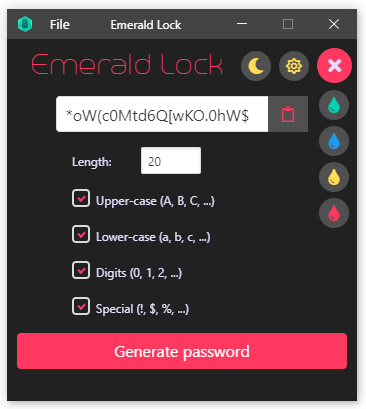
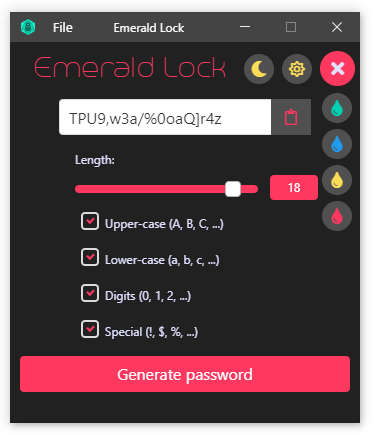
Use slider to select password length

Changed region(s): [[0.0, 0.0, 0.9918, 0.9976], [0.3005, 0.8509, 0.6913, 0.9095], [0.6311, 0.0587, 0.6612, 0.088]]

diff --git a/app/components/PasswordGenerator/PasswordGenerator.js b/app/components/PasswordGenerator/PasswordGenerator.js
@@ -3,12 +3,14 @@ import React, { useState } from 'react';
 import PropTypes from 'prop-types';
 import { clipboard } from 'electron';
 
+import 'bulma-extensions/bulma-slider/dist/js/bulma-slider';
+import 'bulma-extensions/bulma-slider/dist/css/bulma-slider.min.css';
 import { Button, Columns, Form, Icon } from 'react-bulma-components';
-import styles from './Home.css';
+import styles from './PasswordGenerator.css';
 
 import generatePassword from '../../utils/generate-password';
 
-import Checkbox from '../../ui_components/Checkbox';
+import CheckRadio from '../../ui_components/CheckRadio';
 import Menu from '../../containers/Menu';
 import type { MenuState } from '../../reducers/menu';
 
@@ -135,25 +137,29 @@ function Home(props: Props) {
       {/* Length of the password + checkboxes */}
       <div className={styles.passwordOptions}>
         {/* Password Length */}
-        <div className="columns is-mobile" style={{ marginBottom: 0 }}>
-          <Columns.Column>
-            <p className={styles.passLength}>Length:</p>
-          </Columns.Column>
-          <Columns.Column className="is-three-quarters">
-            <Form.Control className={styles.passLengthInput}>
-              <Form.Input
-                size="small"
-                type="number"
-                value={passLength}
-                min="8"
-                max="20"
-                onChange={e => setPassLength(e.target.value)}
-              />
-            </Form.Control>
-          </Columns.Column>
-        </div>
+        <p className={styles.passLength}>Length:</p>
+        <input
+          id="sliderWithValue"
+          className={`slider has-output is-fullwidth is-${
+            props.menu.themeColor
+          }`}
+          step="1"
+          min="0"
+          max="20"
+          value={passLength}
+          type="range"
+          onChange={e => setPassLength(e.target.value)}
+        />
+        <output
+          className={styles.passwordOutput}
+          style={{ top: '7px' }}
+          htmlFor="sliderWithValue"
+        >
+          {passLength}
+        </output>
+
         {/* Upper case */}
-        <Checkbox
+        <CheckRadio
           type="checkbox"
           color={props.menu.themeColor}
           size="small"
@@ -163,7 +169,7 @@ function Home(props: Props) {
           onClick={onCheckboxClick}
         />
         {/* Lower case */}
-        <Checkbox
+        <CheckRadio
           type="checkbox"
           color={props.menu.themeColor}
           size="small"
@@ -173,7 +179,7 @@ function Home(props: Props) {
           onClick={onCheckboxClick}
         />
         {/* Digits */}
-        <Checkbox
+        <CheckRadio
           type="checkbox"
           color={props.menu.themeColor}
           size="small"
@@ -183,7 +189,7 @@ function Home(props: Props) {
           onClick={onCheckboxClick}
         />
         {/* Special characters */}
-        <Checkbox
+        <CheckRadio
           type="checkbox"
           color={props.menu.themeColor}
           size="small"

diff --git a/app/Routes.js b/app/Routes.js
@@ -5,7 +5,7 @@ import { connect } from 'react-redux';
 import { Switch, Route } from 'react-router';
 import routes from './constants/routes';
 import App from './containers/App';
-import HomePage from './containers/HomePage';
+import PasswordGenerator from './containers/PasswordGenerator';
 import { getThemeMode, getThemeColor } from './actions/menu';
 
 type Props = {
@@ -24,7 +24,7 @@ function Routes(props: Props) {
   return (
     <App>
       <Switch>
-        <Route path={routes.HOME} component={HomePage} />
+        <Route path={routes.HOME} component={PasswordGenerator} />
       </Switch>
     </App>
   );

diff --git a/app/ui_components/CheckRadio.js b/app/ui_components/CheckRadio.js
@@ -31,7 +31,7 @@ type Props = {
   disabled?: boolean
 };
 
-export default function Checkbox({
+export default function CheckRadio({
   name,
   label,
   checked,
@@ -72,7 +72,7 @@ export default function Checkbox({
   );
 }
 
-Checkbox.propTypes = {
+CheckRadio.propTypes = {
   name: PropTypes.string.isRequired,
   label: PropTypes.string,
   checked: PropTypes.bool,
@@ -89,7 +89,7 @@ Checkbox.propTypes = {
   disabled: PropTypes.bool
 };
 
-Checkbox.defaultProps = {
+CheckRadio.defaultProps = {
   label: undefined,
   checked: undefined,
   className: undefined,

diff --git a/app/app.global.css b/app/app.global.css
@@ -5,6 +5,7 @@
 @import '~@fortawesome/fontawesome-free/css/all.css';
 @import '~react-bulma-components/dist/react-bulma-components.min.css';
 @import '~bulma-extensions/bulma-checkradio/dist/css/bulma-checkradio.min.css';
+@import '~bulma-extensions/bulma-slider/dist/css/bulma-slider.min.css';
 
 @font-face {
   font-family: titleFont;
@@ -23,8 +24,4 @@
 
 html {
   overflow: hidden;
-}
-
-body {
-  width: 260px;
 }

diff --git a/app/containers/PasswordGenerator.js b/app/containers/PasswordGenerator.js
@@ -1,7 +1,7 @@
 // @flow
 import React, { Component } from 'react';
 import { connect } from 'react-redux';
-import Home from '../components/Home/Home';
+import PasswordGenerator from '../components/PasswordGenerator/PasswordGenerator';
 
 type Props = {};
 
@@ -14,4 +14,4 @@ function mapStateToProps(state) {
 export default connect(
   mapStateToProps,
   null
-)(Home);
+)(PasswordGenerator);

diff --git a/app/main.dev.js b/app/main.dev.js
@@ -72,7 +72,7 @@ app.on('ready', async () => {
     resizable: false,
     show: false,
     width: 350,
-    height: 392
+    height: 411
   });
 
   mainWindow.loadURL(`file://${__dirname}/app.html`);

diff --git a/app/components/PasswordGenerator/PasswordGenerator.css b/app/components/PasswordGenerator/PasswordGenerator.css
@@ -43,7 +43,3 @@
   margin-top: 5px;
   font-size: 0.75rem;
 }
-
-.passLengthInput {
-  width: 60px;
-}

diff --git a/README.md b/README.md
@@ -9,10 +9,10 @@
 <p> A simple, nice looking 👌, password generator 🔐, which takes care of generating your passwords for you :point_down:.</p>
 
 <p align="center">
-  <img src="readme-assets/EmeraldLock-light-primary.PNG"> <img src="readme-assets/EmeraldLock-dark-primary.PNG">
+  <img src="readme-assets/EmeraldLock-light-primary.png"> <img src="readme-assets/EmeraldLock-dark-primary.png">
 </p>
 <p align="center">
-  <img src="readme-assets/EmeraldLock-dark-danger.PNG"> 
+  <img src="readme-assets/EmeraldLock-dark-danger.png"> 
 </p>
 
 ### What it offers
@@ -47,9 +47,9 @@ For now, the app is available only for Windows, but in the future you should be 
 
 <ul>
   <li> Microsoft Windows Installer package:
-    <a href="https://github.com/xylish7/emerald-lock/releases/download/v1.3.0/emerald-lock-1.3.0.msi"> Emerald Lock.msi </a>
+    <a href="https://github.com/xylish7/emerald-lock/releases/download/v1.4.0/emerald-lock-1.4.0.msi"> Emerald Lock.msi </a>
   </li>
   <li> Exe setup: 
-    <a href="https://github.com/xylish7/emerald-lock/releases/download/v1.3.0/emerald-lock-setup-1.3.0.exe"> Emerald Lock.exe </a>
+    <a href="https://github.com/xylish7/emerald-lock/releases/download/v1.4.0/emerald-lock-setup-1.4.0.exe"> Emerald Lock.exe </a>
   </li>
 </ul>
